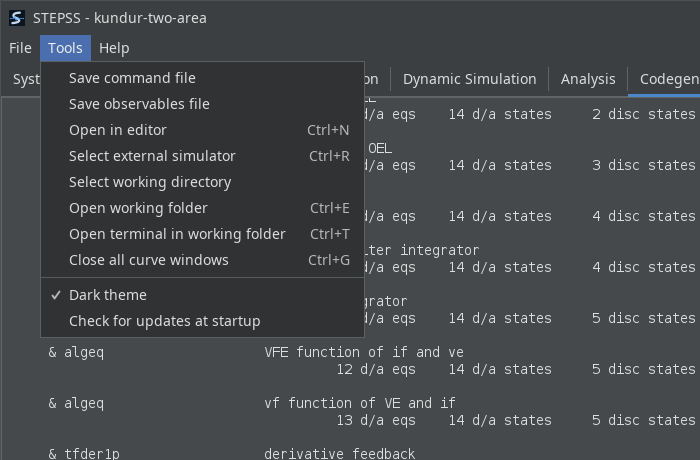
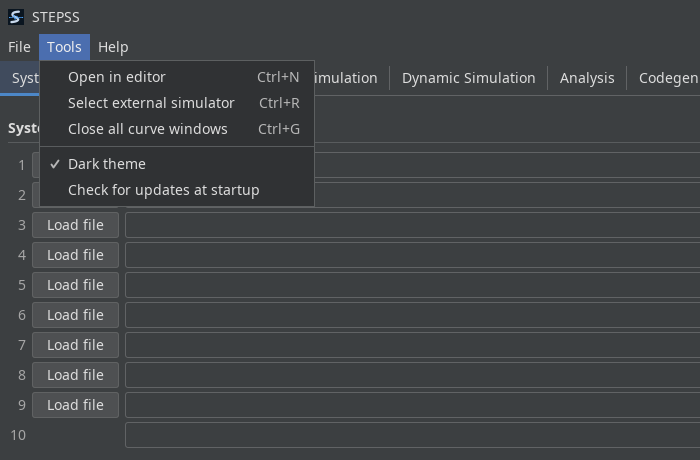
Document the scenario file format, and follow STEPSS 3.81's Analysis tab
**A new Scenario File section in File Formats**, documenting the `.cfg` that
Save configuration writes, key by key, so one can be written by hand or
generated by a script. This is the format the Python interface will read and
write next, and a format two implementations have to agree on needs to be
written down somewhere neither of them owns.

It covers the syntax and the three properties-parser rules a hand-written file
has to respect (the `=`/`:` separators, `#`/`!` comments, and backslash
escaping, with Windows paths called out as the case that bites); every key and
its value type; the observable-type labels, which are stored as labels rather
than codes; the relative-path rule that makes a case folder portable and the
`..` case that defers to an absolute path; a complete worked example; and what
a loader should do with a bad file, which is to apply every key it understands
and report the rest, with only the three format-number cases fatal.

The example is a real file, written by ScenarioFile.save rather than typed
here, so it cannot drift from what the writer emits.

**The Analysis tab gained an Output console** in 3.81. The engine's
small-signal run and both DYNGRAPH invocations behind Extract curves report
there now, so the page no longer sends a reader to the Dynamic Simulation tab
to find out why a run produced nothing.

**Tools lost five items**, so its paragraph, both alt texts and both
screenshots follow. The Save command file paragraph goes with the item and
[…]

diff --git a/src/content/docs/user-guide/file-formats.md b/src/content/docs/user-guide/file-formats.md
@@ -169,6 +169,140 @@ BRANCH  *
 At least one request has to be accepted. A file where none is leaves the
 trajectory without a header, and nothing is recorded.
 
+## Scenario File (`.cfg`)
+
+A scenario file records **which files a case is made of**, not what is in them.
+STEPSS GUI writes one with **File > Save configuration** and reads it back with
+**Load configuration**, so a case set up once reopens in two clicks. It is a
+plain text file and is meant to be writable by hand or by a script.
+
+It carries exactly what the two engines are told to read: the ten system data
+rows, the disturbance file, the one-line diagram, the observables file and the
+wizard tick, the three run-time observable rows, and the four recording
+checkboxes. Nothing else. The small-signal parameters, the working directory
+and the window geometry are all deliberately absent, because a run does not
+depend on them and restoring them would change something the case did not ask
+for.
+
+### Syntax
+
+`key = value`, one per line, UTF-8, with `#` starting a comment line. Blank
+lines are ignored. A key that appears twice keeps the last value.
+
+Values are read with Java's properties parser, so a hand-written file has three
+rules to respect:
+
+- `=` and `:` both separate a key from its value. A key containing either must
+  escape it; no key defined below does.
+- `#` and `!` start a comment only at the beginning of a line.
+- A backslash escapes: write `\\` for a literal backslash, and `\t`, `\n`,
+  `\r`, `\f` for the control characters. A **leading** space in a value must
+  be written `\ `; spaces anywhere else are literal, which is why
+  `runtime.1.type = Bus Voltage` needs no quoting.
+
+Windows paths are the case that bites: write `C:/cases/lf.dat` or
+`C:\\cases\\lf.dat`, never `C:\cases\lf.dat`.
+
+### Keys
+
+`stepss.format` is mandatory and must be the format number this build reads.
+Everything else is optional; an absent key means an empty field.
+
+| Key | Value |
+|---|---|
+| `stepss.format` | Format number. **`1`** today |
+| `data.1` … `data.10` | The ten system data rows, in order. Empty rows are not written |
+| `disturbance` | The disturbance `.dst` |
+| `diagram` | The annotated one-line diagram SVG |
+| `observables.file` | The [observables file](#observables-file) |
+| `observables.wizard` | `true` to build the observables from the dialog instead of the file |
+| `runtime.1.type` … `runtime.3.type` | Run-time plot row: the observable type, **by its label** (see below) |
+| `runtime.1.name` … `runtime.3.name` | Run-time plot row: the bus, machine, branch or injector name |
+| `record.trajectory` | `true` to write the output trajectory |
+| `record.continuous` | `true` to write the continuous trace |
+| `record.discrete` | `true` to write the discrete trace |
+| `record.dump` | `true` to write the initialisation dump |
+
+Booleans are `true` or `false`. Anything else is reported and the field is left
+at its default.
+
+`runtime.N.type` stores the **label** shown in the dropdown, not a code: one of
+`Bus Voltage`, `Machine Speed`, `Omega-delta of machine`, `Active power-delta
+of machine`, `Center of Inertia`, `Wall-clock time per step`, `Solutions per
+step`, `Latency`, `Branch Active Power Origin`, `Branch Active Power
+Extremity`, `Branch Reactive Power Origin`, `Branch Reactive Power Extremity`,
+`Injector Observable`, `Two-port injector Observable`. A label this build does
+not know is reported and that row is left empty.
+
+### Paths
+
+**A path inside the `.cfg`'s own folder is stored relative to it, with forward
+slashes on every platform.** Anything outside that folder is stored absolute.
+Relative paths are resolved against the `.cfg`'s directory, never against the
+working directory, and never leave the file: everything downstream of a load
+sees an absolute path.
+
+That rule is what makes a case folder portable. Keep the `.cfg` beside the data
+it names and the whole folder can be moved, copied or sent to a colleague. A
+path that would need `..` to express is stored absolute instead, so a file
+outside the folder is never silently repointed at a different one after a move.
+
+### Example
+
+A Kundur two-area case, saved beside its data:
+
+```ini
+# STEPSS scenario. Save configuration wrote this; Load configuration reads it.
+# Paths inside this file's own directory are stored relative to it, so the
+# folder can be moved or copied whole. Everything else is absolute.
+# Saved by STEPSS 3.81
+
+stepss.format = 1
+
+# System data
+data.1 = lf.dat
+data.2 = dyn.dat
+data.3 = solveroptions.dat
+disturbance = disturb.dst
+diagram = kundur.svg
+
+# Observables
+observables.file = obs.dat
+observables.wizard = false
+runtime.1.type = Bus Voltage
+runtime.1.name = 9
+runtime.2.type = Machine Speed
+runtime.2.name = G1
+runtime.3.type = 
+runtime.3.name = 
+
+# Recording
+record.trajectory = true
+record.continuous = false
+record.discrete = false
+record.dump = false
+```
+
+The section comments and the blank lines are for the reader. Nothing depends on
+them and a file without them loads identically.
+
+### What a loader should do with a bad file
+
+Loading is deliberately tolerant, and a hand-written file benefits from the same
+rule: **apply every key you understand and report the rest**, rather than
+refusing the file over one bad line. A key nobody knows, a boolean that is not
+a boolean, an observable label that has been retired, a file that has since been
+deleted: each is one sentence to the user, and the rest of the scenario still
+loads.
+
+Only three things are fatal, and all three are about the format number:
+
+| `stepss.format` | Outcome |
+|---|---|
+| Absent | Refused. Files this old predate the format and hold absolute paths from another machine |
+| Not a number | Refused, as not being a scenario file |
+| Higher than this build reads | Refused, naming the version needed |
+
 ## Next Steps
 
 - [Network Modeling](/user-guide/network/), Define buses, lines, transformers, and shunts
